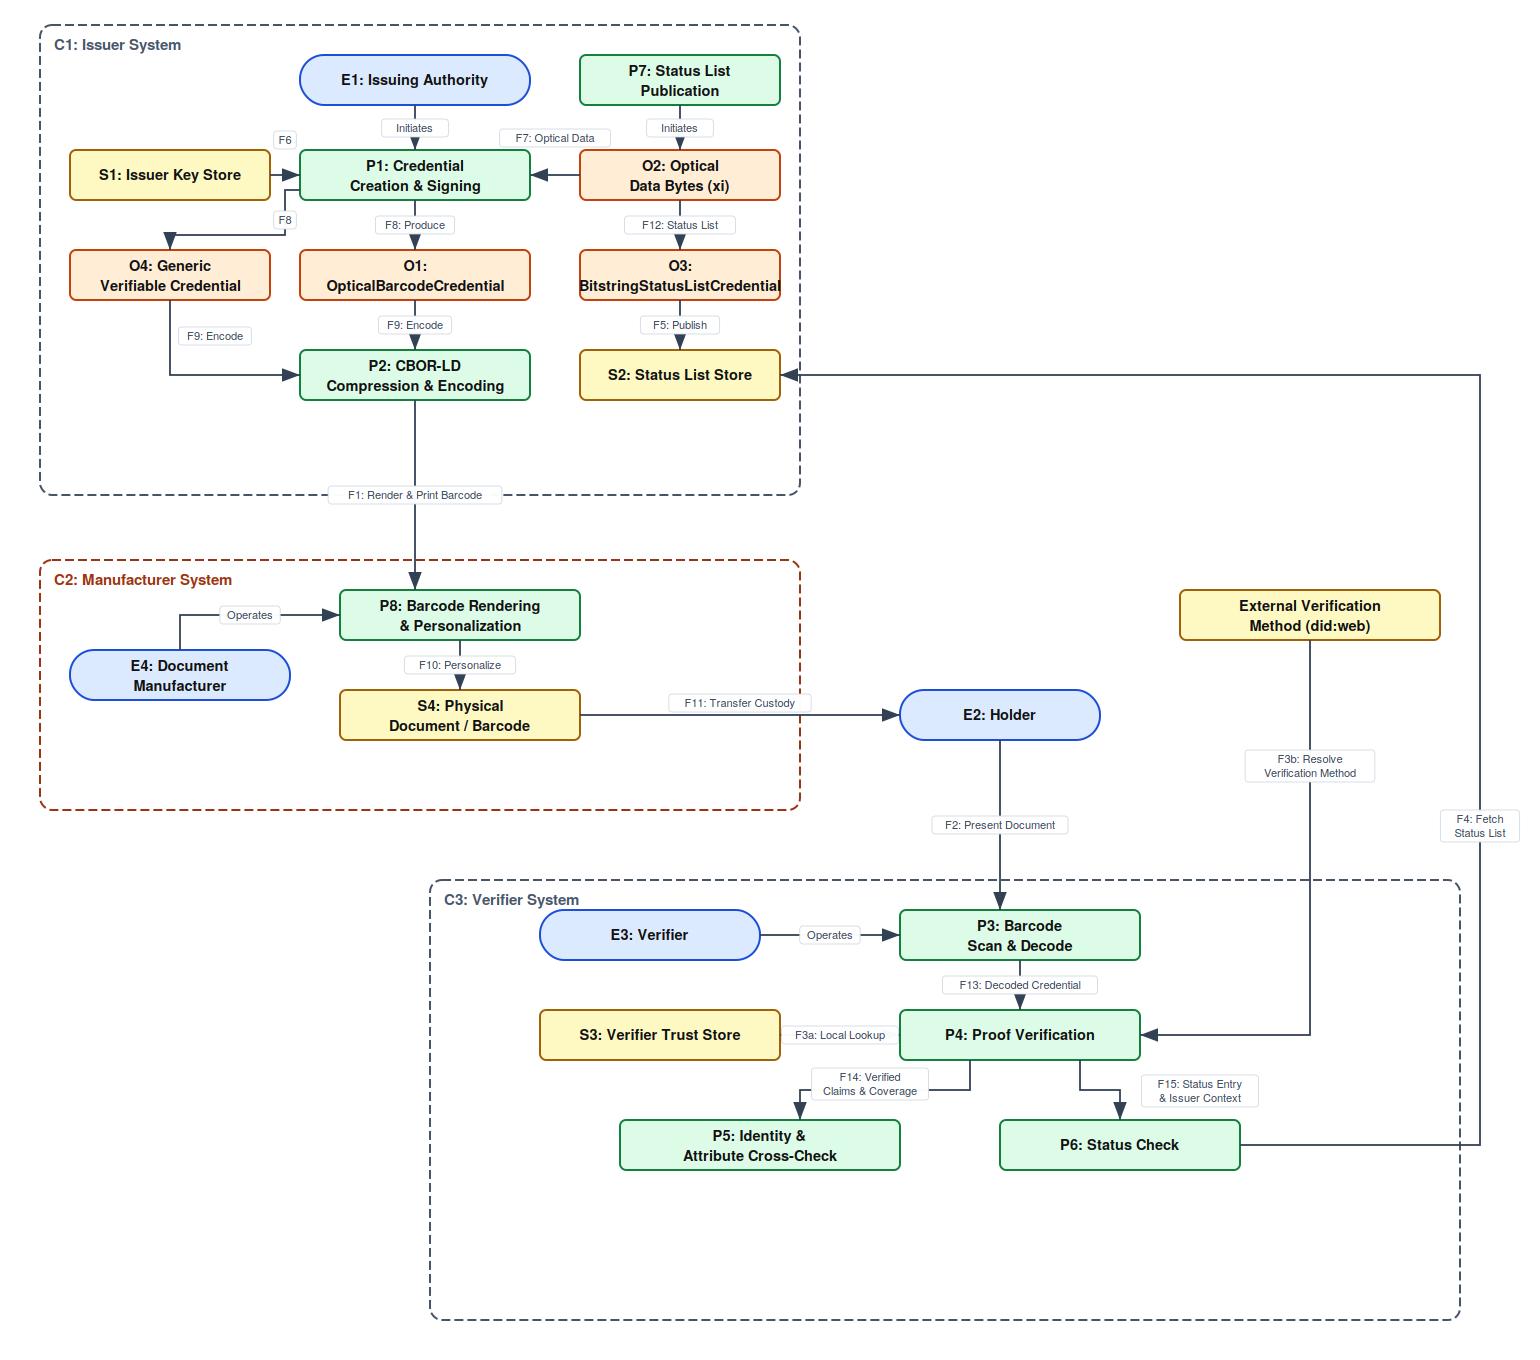
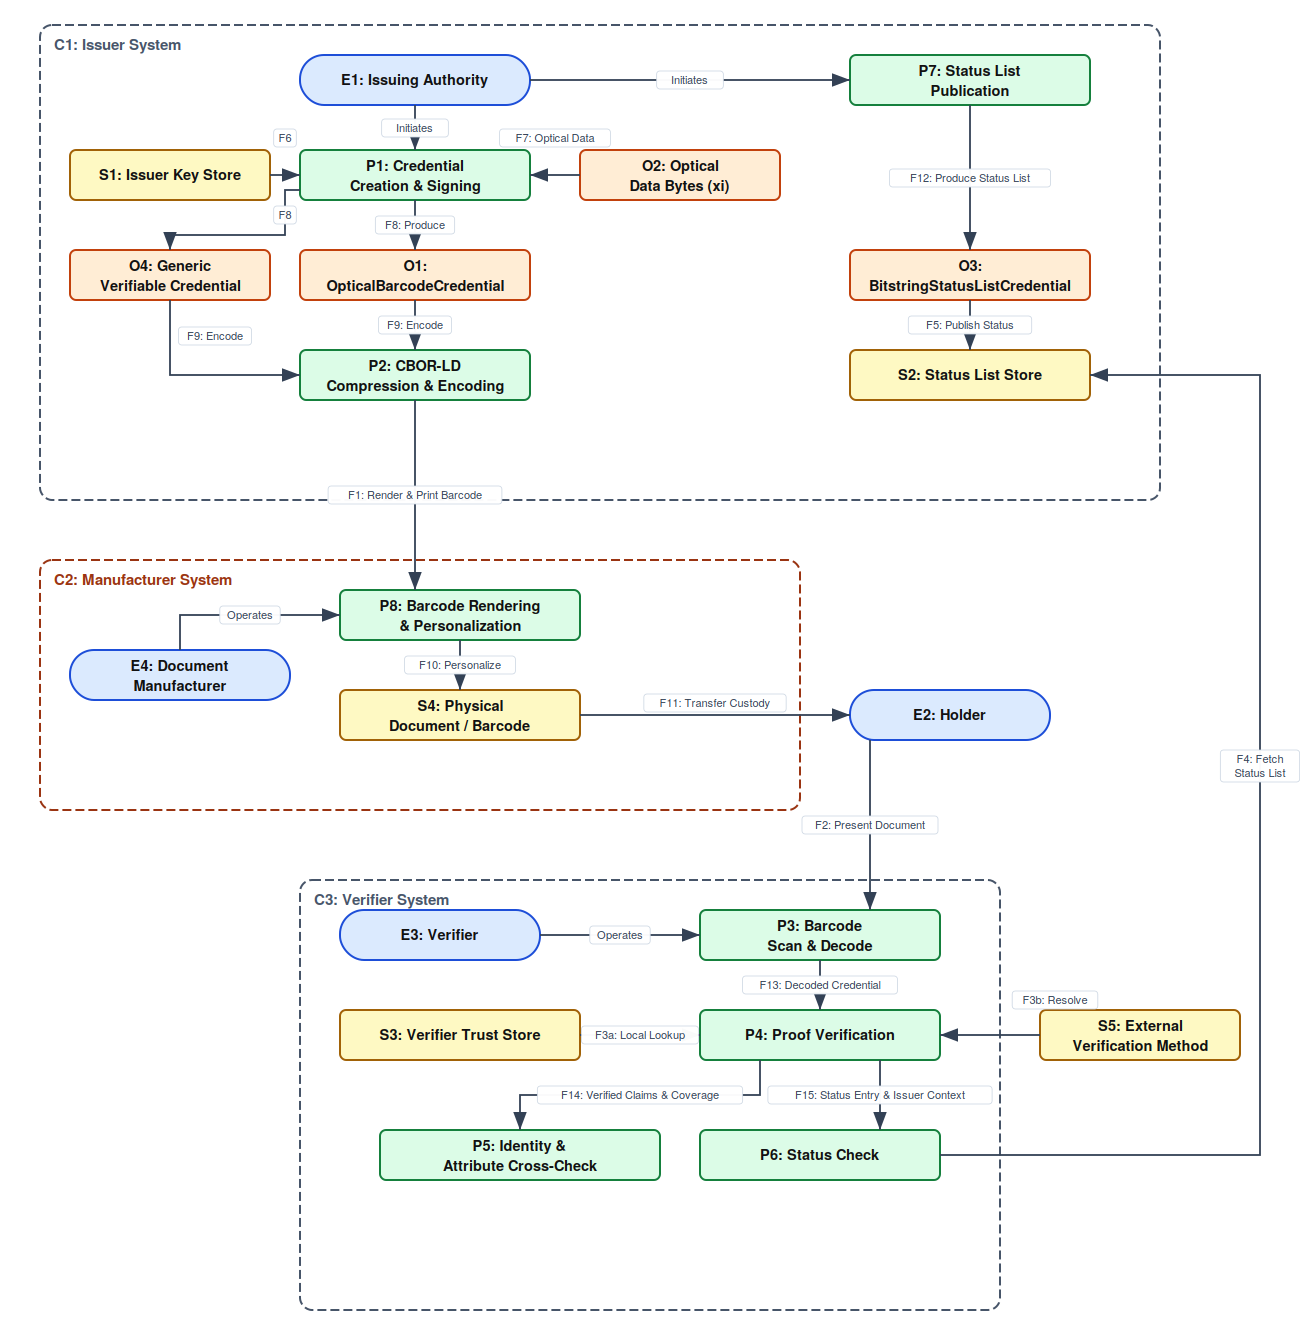
Polish DFD.

diff --git a/threat-model/index.html b/threat-model/index.html
@@ -213,7 +213,7 @@ manufacturer renders and personalizes the [=S4|physical document=] (S4) at
 [=E2|holder=] (E2). The holder [=F2|presents the document=] to a
 [=E3|verifier=] (E3), who scans and decodes it (P3) and verifies the proof (P4),
 obtaining key material either from the [=S3|verifier trust store=] ([=F3|F3a=])
-or through [=DID|external verification-method resolution=] ([=F3|F3b=]).
+or through [=S5|external verification-method resolution=] ([=F3|F3b=]).
 Proof verification passes its verified claims and protected-field coverage to
 the [=P5|identity and attribute cross-check=] (P5) and the validated status
 entry and issuer context to the [=P6|status check=] (P6), which may optionally
@@ -257,7 +257,7 @@ as an orange box.
 single controlling authority), drawn as a dashed rectangle enclosing its
 elements. A data flow that crosses a boundary line represents data, custody, or
 control passing between authorities. Elements drawn outside every boundary
-(such as [=DID|external verification-method resolution=]) are dependencies not
+(such as the [=S5|external verification method=] store) are dependencies not
 controlled by any modelled party.
         </li>
       </ul>
@@ -500,7 +500,7 @@ order to verify the credential. The model distinguishes two sub-flows:
 <strong>F3a</strong>, a lookup in the verifier's [=S3|local trust store=] of
 already-trusted key material and policy; and <strong>F3b</strong>, external
 verification-method resolution, such as resolving a <code>did:web</code>
-identifier via [=DID|external verification-method resolution=]. This threat model
+identifier from the [=S5|external verification method=] store. This threat model
 treats threats in resolving an external verification method as largely out of scope,
 as they are not specific to barcodes or other optical media in any way.
             </td>
@@ -577,6 +577,19 @@ and is the medium presented by the holder and scanned by the verifier. It is
 outside any compute boundary and is readable by anything with optical access to it.
 This store moves from the custody of the [=E4|Document Manufacturer=], inside the
 [=C2|manufacturer system boundary=], to the custody of the [=E2|holder=].
+            </td>
+          </tr>
+          <tr>
+            <td class="left">
+              <dfn class="lint-ignore"
+                data-lt="S5|External Verification Method">S5 External Verification Method</dfn>
+            </td>
+            <td>
+The external storage from which a verifier obtains issuer key material via
+[=F3|F3b=] when the verification method is not already present in the
+[=S3|verifier trust store=]. This document treats this store outside the existing boundaries
+for generality, although in many deployments this store will be controlled by
+a modelled entity such as the issuer.
             </td>
           </tr>
           <tr>
@@ -669,21 +682,6 @@ organization from the issuer, so the boundary between [=C1|C1=] and
 The system boundary that runs the [=P3|Barcode Scan and Decode=], [=P4|Proof Verification=],
 [=P5|Identity and Attribute Cross-Check=], and [=P6|Status Check=] processes
 and holds the [=S3|Verifier Trust Store=].
-            </td>
-          </tr>
-          <tr>
-            <td class="left">
-              <dfn class="lint-ignore"
-                data-lt="DID|External Verification-Method Resolution">
-DID External Verification-Method Resolution</dfn>
-            </td>
-            <td>
-A dependency outside every modelled system boundary: the external
-infrastructure — for example DNS, a web server, and the resolution machinery of
-a DID method such as <code>did:web</code> — from which a verifier obtains issuer
-key material via [=F3|F3b=] when the verification method is not already present
-in the [=S3|verifier trust store=]. Because no modelled party controls it, its
-compromise is treated as an inherited dependency risk.
             </td>
           </tr>
         </tbody>

diff --git a/threat-model/threats/outline.js b/threat-model/threats/outline.js
@@ -46,14 +46,14 @@
       "S2": "S2: Status List Store",
       "S3": "S3: Verifier Trust Store",
       "S4": "S4: Physical Document",
+      "S5": "S5: External Verification Method",
       "O1": "O1: OpticalBarcodeCredential",
       "O2": "O2: Optical Data Bytes (xi)",
       "O3": "O3: BitstringStatusListCredential",
       "O4": "O4: Generic Verifiable Credential Expressed as Barcode",
       "C1": "C1: Issuer System",
       "C2": "C2: Manufacturer System",
-      "C3": "C3: Verifier System",
-      "DID": "DID: External Verification-Method Resolution"
+      "C3": "C3: Verifier System"
     });
 
   })();